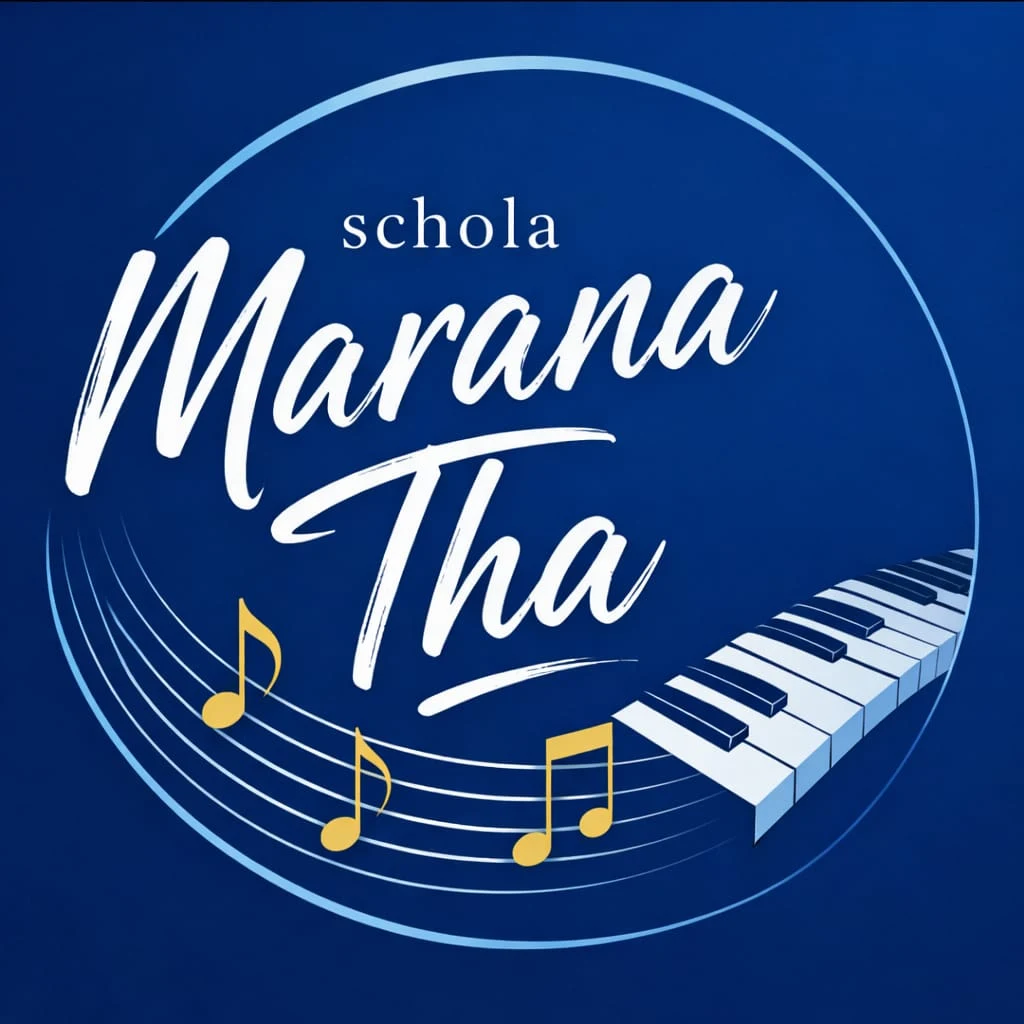
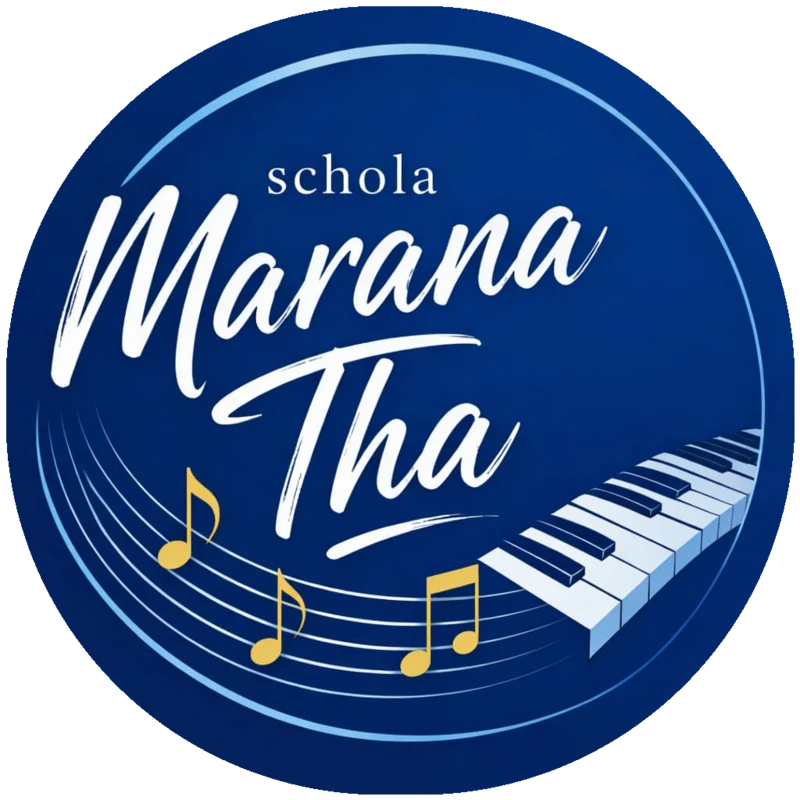
design(grupy): einheitlicher Cream-Hintergrund (#f5f1ea) auf allen 12 Karten
User-Feedback: BG-Mischung aus weiss/cream/blau wirkte zu random.
Loesung: ALLE 12 Karten kriegen denselben warmen Cream-Ton #f5f1ea.

Aenderungen:
- SNE, Domowy Kosciol, Schoenstatt, Zywy Rozanca, Radio Maryja,
  Apostolstwo, Ministranci: weiss → cream
- Schola: blaues Quadrat → cream + Kreismaske im Source-File
  (extrahiert nur das blaue Marana-Tha-Logo aus dem Quadrat)
- Dzieci Maryi: Background-Removal mit cleanem 4-Corner-Floodfill
  statt globalem Color-Key. Beseitigt Halo-Artefakte. Medaille mit
  modesten 12/18% Padding (vorher 30% war zu klein, jetzt richtig
  proportioniert).

Resultat: alle 12 Logos schweben auf identischem Cream-Background,
visuelle Konsistenz hergestellt.

Changed region(s): [[0.0, 0.0, 1.0, 1.0]]

diff --git a/index.html b/index.html
@@ -687,7 +687,7 @@
     <div class="communities-grid">
       <!-- Szkoła Nowej Ewangelizacji -->
       <a href="wspolnota-sne.html" class="community-item reveal">
-        <div class="community-image community-image--logo" style="background:#ffffff;">
+        <div class="community-image community-image--logo" style="background:#f5f1ea;">
           <img src="images/grupy/sne.webp" alt="Logo Szkoła Nowej Ewangelizacji" loading="lazy" width="800" height="800" onerror="this.style.display='none'; this.nextElementSibling.style.display='flex'">
           <div class="community-image-placeholder" style="background: linear-gradient(135deg, #a68b5b, #8a7248); display: none;">
             <span class="community-icon">
@@ -702,7 +702,7 @@
       </a>
       <!-- Domowy Kościół -->
       <a href="wspolnota-domowy-kosciol.html" class="community-item reveal">
-        <div class="community-image community-image--logo" style="background:#ffffff;">
+        <div class="community-image community-image--logo" style="background:#f5f1ea;">
           <img src="images/grupy/domowy-kosciol.png" alt="Logo Domowy Kościół" loading="lazy" width="361" height="400" onerror="this.style.display='none'; this.nextElementSibling.style.display='flex'">
           <div class="community-image-placeholder" style="background: linear-gradient(135deg, #7a6d5c, #5c5247); display: none;">
             <span class="community-icon">
@@ -717,8 +717,8 @@
       </a>
       <!-- Schola „Marana Tha“ -->
       <a href="wspolnota-schola.html" class="community-item reveal">
-        <div class="community-image community-image--logo" style="background:#1c3f80;">
-          <img src="images/grupy/schola-marana-tha.jpg" alt="Logo Schola Marana Tha" loading="lazy" width="1024" height="1024" onerror="this.style.display='none'; this.nextElementSibling.style.display='flex'">
+        <div class="community-image community-image--logo" style="background:#f5f1ea;">
+          <img src="images/grupy/schola-marana-tha.webp" alt="Logo Schola Marana Tha" loading="lazy" width="800" height="800" onerror="this.style.display='none'; this.nextElementSibling.style.display='flex'">
           <div class="community-image-placeholder" style="background: linear-gradient(135deg, #c4a875, #a68b5b); display: none;">
             <span class="community-icon">
               <svg viewBox="0 0 24 24" fill="none" stroke="currentColor" stroke-width="1.5"><path d="M9 18V5l12-2v13"/><circle cx="6" cy="18" r="3"/><circle cx="18" cy="16" r="3"/></svg>
@@ -747,7 +747,7 @@
       </a>
       <!-- Ruch Szensztacki -->
       <a href="wspolnota-ruch-szensztacki.html" class="community-item reveal">
-        <div class="community-image community-image--logo community-image--logo-tight" style="background:#ffffff;">
+        <div class="community-image community-image--logo community-image--logo-tight" style="background:#f5f1ea;">
           <img src="images/grupy/ruch-szensztacki.svg" alt="Logo Ruch Szensztacki" loading="lazy" width="200" height="200" onerror="this.style.display='none'; this.nextElementSibling.style.display='flex'">
           <div class="community-image-placeholder" style="background: linear-gradient(135deg, #8a7248, #6b5a3a); display: none;">
             <span class="community-icon">
@@ -762,7 +762,7 @@
       </a>
       <!-- Koło Żywego Różańca -->
       <a href="wspolnota-zywy-rozaniec.html" class="community-item reveal">
-        <div class="community-image community-image--logo" style="background:#ffffff;">
+        <div class="community-image community-image--logo" style="background:#f5f1ea;">
           <img src="images/grupy/zywy-rozaniec.png" alt="Logo Koło Żywego Różańca" loading="lazy" width="330" height="330" onerror="this.style.display='none'; this.nextElementSibling.style.display='flex'">
           <div class="community-image-placeholder" style="background: linear-gradient(135deg, #d4c9ba, #b8a892); display: none;">
             <span class="community-icon">
@@ -778,7 +778,7 @@
       <!-- Grono Dzieci Maryi -->
       <a href="wspolnota-grono-dzieci-maryi.html" class="community-item reveal">
         <div class="community-image community-image--logo" style="background:#f5f1ea;">
-          <img src="images/grupy/grono-dzieci-maryi.webp" alt="Cudowny Medalik – emblemat Grona Dzieci Maryi" loading="lazy" width="446" height="600" onerror="this.style.display='none'; this.nextElementSibling.style.display='flex'">
+          <img src="images/grupy/grono-dzieci-maryi.webp" alt="Cudowny Medalik – emblemat Grona Dzieci Maryi" loading="lazy" width="440" height="600" onerror="this.style.display='none'; this.nextElementSibling.style.display='flex'">
           <div class="community-image-placeholder" style="background: linear-gradient(135deg, #9a8b76, #7a6d5c); display: none;">
             <span class="community-icon">
               <svg viewBox="0 0 24 24" fill="none" stroke="currentColor" stroke-width="1.5"><path d="M12 2l3.09 6.26L22 9.27l-5 4.87 1.18 6.88L12 17.77l-6.18 3.25L7 14.14 2 9.27l6.91-1.01L12 2z"/></svg>
@@ -792,7 +792,7 @@
       </a>
       <!-- Koło Przyjaciół Radia Maryja -->
       <a href="wspolnota-radio-maryja.html" class="community-item reveal">
-        <div class="community-image community-image--logo" style="background:#ffffff;">
+        <div class="community-image community-image--logo" style="background:#f5f1ea;">
           <img src="images/grupy/radio-maryja.png" alt="Logo Radio Maryja" loading="lazy" width="312" height="297" onerror="this.style.display='none'; this.nextElementSibling.style.display='flex'">
           <div class="community-image-placeholder" style="background: linear-gradient(135deg, #5c5247, #3d3731); display: none;">
             <span class="community-icon">
@@ -807,7 +807,7 @@
       </a>
       <!-- Apostolstwo Dobrej Śmierci -->
       <a href="wspolnota-apostolstwo.html" class="community-item reveal">
-        <div class="community-image community-image--logo community-image--logo-tight" style="background:#ffffff;">
+        <div class="community-image community-image--logo community-image--logo-tight" style="background:#f5f1ea;">
           <img src="images/grupy/apostolstwo.png" alt="Logo Apostolstwo Dobrej Śmierci" loading="lazy" width="256" height="256" onerror="this.style.display='none'; this.nextElementSibling.style.display='flex'">
           <div class="community-image-placeholder" style="background: linear-gradient(135deg, #a68b5b, #7a6d5c); display: none;">
             <span class="community-icon">
@@ -852,7 +852,7 @@
       </a>
       <!-- Ministranci – Służba Liturgiczna -->
       <a href="wspolnota-ministranci.html" class="community-item reveal">
-        <div class="community-image community-image--logo" style="background:#f8f7f3;">
+        <div class="community-image community-image--logo" style="background:#f5f1ea;">
           <img src="images/grupy/sluzba-liturgiczna.webp" alt="Logo Ministranci – Służba Liturgiczna" loading="lazy" width="800" height="500" onerror="this.style.display='none'; this.nextElementSibling.style.display='flex'">
           <div class="community-image-placeholder" style="background: linear-gradient(135deg, #a68b5b, #7a6d5c); display: none;">
             <span class="community-icon">

diff --git a/grupy.html b/grupy.html
@@ -120,7 +120,7 @@
     <div class="communities-grid">
 
       <a href="wspolnota-sne.html" class="community-item reveal">
-        <div class="community-image community-image--logo" style="background:#ffffff;">
+        <div class="community-image community-image--logo" style="background:#f5f1ea;">
           <img src="images/grupy/sne.webp" alt="Logo Szkoła Nowej Ewangelizacji" loading="lazy" width="800" height="800" onerror="this.style.display='none'; this.nextElementSibling.style.display='flex'">
           <div class="community-image-placeholder" style="background: linear-gradient(135deg, #a68b5b, #8a7248); display: none;">
             <span class="community-icon">
@@ -135,7 +135,7 @@
       </a>
 
       <a href="wspolnota-domowy-kosciol.html" class="community-item reveal">
-        <div class="community-image community-image--logo" style="background:#ffffff;">
+        <div class="community-image community-image--logo" style="background:#f5f1ea;">
           <img src="images/grupy/domowy-kosciol.png" alt="Logo Domowy Kościół" loading="lazy" width="361" height="400" onerror="this.style.display='none'; this.nextElementSibling.style.display='flex'">
           <div class="community-image-placeholder" style="background: linear-gradient(135deg, #7a6d5c, #5c5247); display: none;">
             <span class="community-icon">
@@ -150,8 +150,8 @@
       </a>
 
       <a href="wspolnota-schola.html" class="community-item reveal">
-        <div class="community-image community-image--logo" style="background:#1c3f80;">
-          <img src="images/grupy/schola-marana-tha.jpg" alt="Logo Schola Marana Tha" loading="lazy" width="1024" height="1024" onerror="this.style.display='none'; this.nextElementSibling.style.display='flex'">
+        <div class="community-image community-image--logo" style="background:#f5f1ea;">
+          <img src="images/grupy/schola-marana-tha.webp" alt="Logo Schola Marana Tha" loading="lazy" width="800" height="800" onerror="this.style.display='none'; this.nextElementSibling.style.display='flex'">
           <div class="community-image-placeholder" style="background: linear-gradient(135deg, #c4a875, #a68b5b); display: none;">
             <span class="community-icon">
               <svg viewBox="0 0 24 24" fill="none" stroke="currentColor" stroke-width="1.5"><path d="M9 18V5l12-2v13"/><circle cx="6" cy="18" r="3"/><circle cx="18" cy="16" r="3"/></svg>
@@ -180,7 +180,7 @@
       </a>
 
       <a href="wspolnota-ruch-szensztacki.html" class="community-item reveal">
-        <div class="community-image community-image--logo community-image--logo-tight" style="background:#ffffff;">
+        <div class="community-image community-image--logo community-image--logo-tight" style="background:#f5f1ea;">
           <img src="images/grupy/ruch-szensztacki.svg" alt="Logo Ruch Szensztacki" loading="lazy" width="200" height="200" onerror="this.style.display='none'; this.nextElementSibling.style.display='flex'">
           <div class="community-image-placeholder" style="background: linear-gradient(135deg, #8a7248, #6b5a3a); display: none;">
             <span class="community-icon">
@@ -195,7 +195,7 @@
       </a>
 
       <a href="wspolnota-zywy-rozaniec.html" class="community-item reveal">
-        <div class="community-image community-image--logo" style="background:#ffffff;">
+        <div class="community-image community-image--logo" style="background:#f5f1ea;">
           <img src="images/grupy/zywy-rozaniec.png" alt="Logo Koło Żywego Różańca" loading="lazy" width="330" height="330" onerror="this.style.display='none'; this.nextElementSibling.style.display='flex'">
           <div class="community-image-placeholder" style="background: linear-gradient(135deg, #d4c9ba, #b8a892); display: none;">
             <span class="community-icon">
@@ -211,7 +211,7 @@
 
       <a href="wspolnota-grono-dzieci-maryi.html" class="community-item reveal">
         <div class="community-image community-image--logo" style="background:#f5f1ea;">
-          <img src="images/grupy/grono-dzieci-maryi.webp" alt="Cudowny Medalik – emblemat Grona Dzieci Maryi" loading="lazy" width="446" height="600" onerror="this.style.display='none'; this.nextElementSibling.style.display='flex'">
+          <img src="images/grupy/grono-dzieci-maryi.webp" alt="Cudowny Medalik – emblemat Grona Dzieci Maryi" loading="lazy" width="440" height="600" onerror="this.style.display='none'; this.nextElementSibling.style.display='flex'">
           <div class="community-image-placeholder" style="background: linear-gradient(135deg, #9a8b76, #7a6d5c); display: none;">
             <span class="community-icon">
               <svg viewBox="0 0 24 24" fill="none" stroke="currentColor" stroke-width="1.5"><path d="M12 2l3.09 6.26L22 9.27l-5 4.87 1.18 6.88L12 17.77l-6.18 3.25L7 14.14 2 9.27l6.91-1.01L12 2z"/></svg>
@@ -225,7 +225,7 @@
       </a>
 
       <a href="wspolnota-radio-maryja.html" class="community-item reveal">
-        <div class="community-image community-image--logo" style="background:#ffffff;">
+        <div class="community-image community-image--logo" style="background:#f5f1ea;">
           <img src="images/grupy/radio-maryja.png" alt="Logo Radio Maryja" loading="lazy" width="312" height="297" onerror="this.style.display='none'; this.nextElementSibling.style.display='flex'">
           <div class="community-image-placeholder" style="background: linear-gradient(135deg, #5c5247, #3d3731); display: none;">
             <span class="community-icon">
@@ -240,7 +240,7 @@
       </a>
 
       <a href="wspolnota-apostolstwo.html" class="community-item reveal">
-        <div class="community-image community-image--logo community-image--logo-tight" style="background:#ffffff;">
+        <div class="community-image community-image--logo community-image--logo-tight" style="background:#f5f1ea;">
           <img src="images/grupy/apostolstwo.png" alt="Logo Apostolstwo Dobrej Śmierci" loading="lazy" width="256" height="256" onerror="this.style.display='none'; this.nextElementSibling.style.display='flex'">
           <div class="community-image-placeholder" style="background: linear-gradient(135deg, #a68b5b, #7a6d5c); display: none;">
             <span class="community-icon">
@@ -285,7 +285,7 @@
       </a>
 
       <a href="wspolnota-ministranci.html" class="community-item reveal">
-        <div class="community-image community-image--logo" style="background:#f8f7f3;">
+        <div class="community-image community-image--logo" style="background:#f5f1ea;">
           <img src="images/grupy/sluzba-liturgiczna.webp" alt="Logo Ministranci – Służba Liturgiczna" loading="lazy" width="800" height="500" onerror="this.style.display='none'; this.nextElementSibling.style.display='flex'">
           <div class="community-image-placeholder" style="background: linear-gradient(135deg, #a68b5b, #7a6d5c); display: none;">
             <span class="community-icon">
